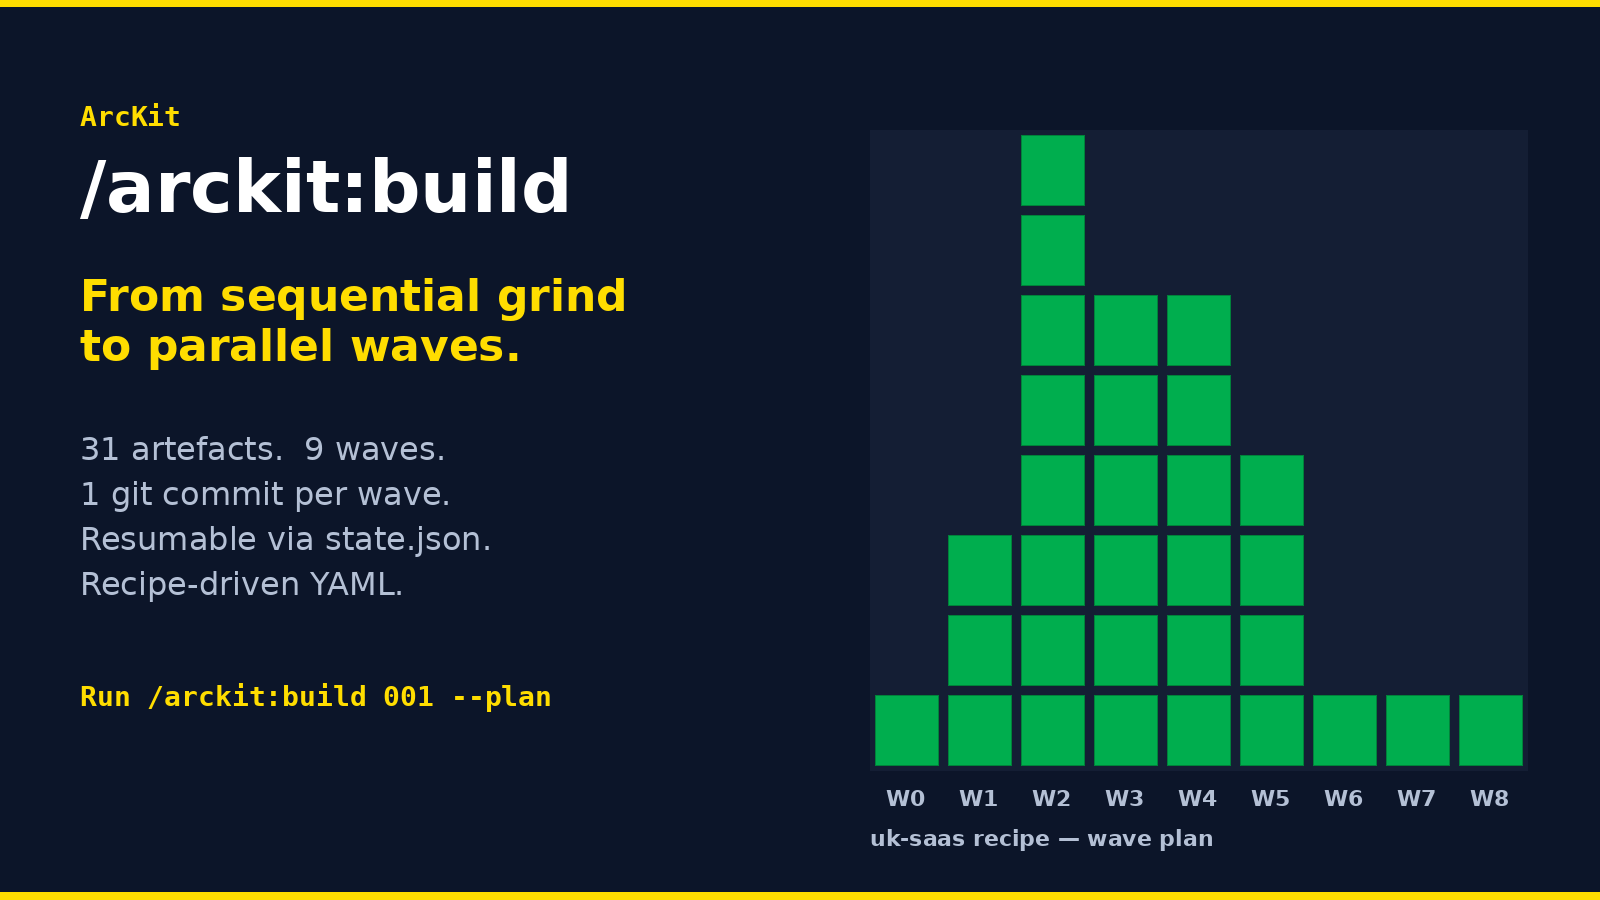
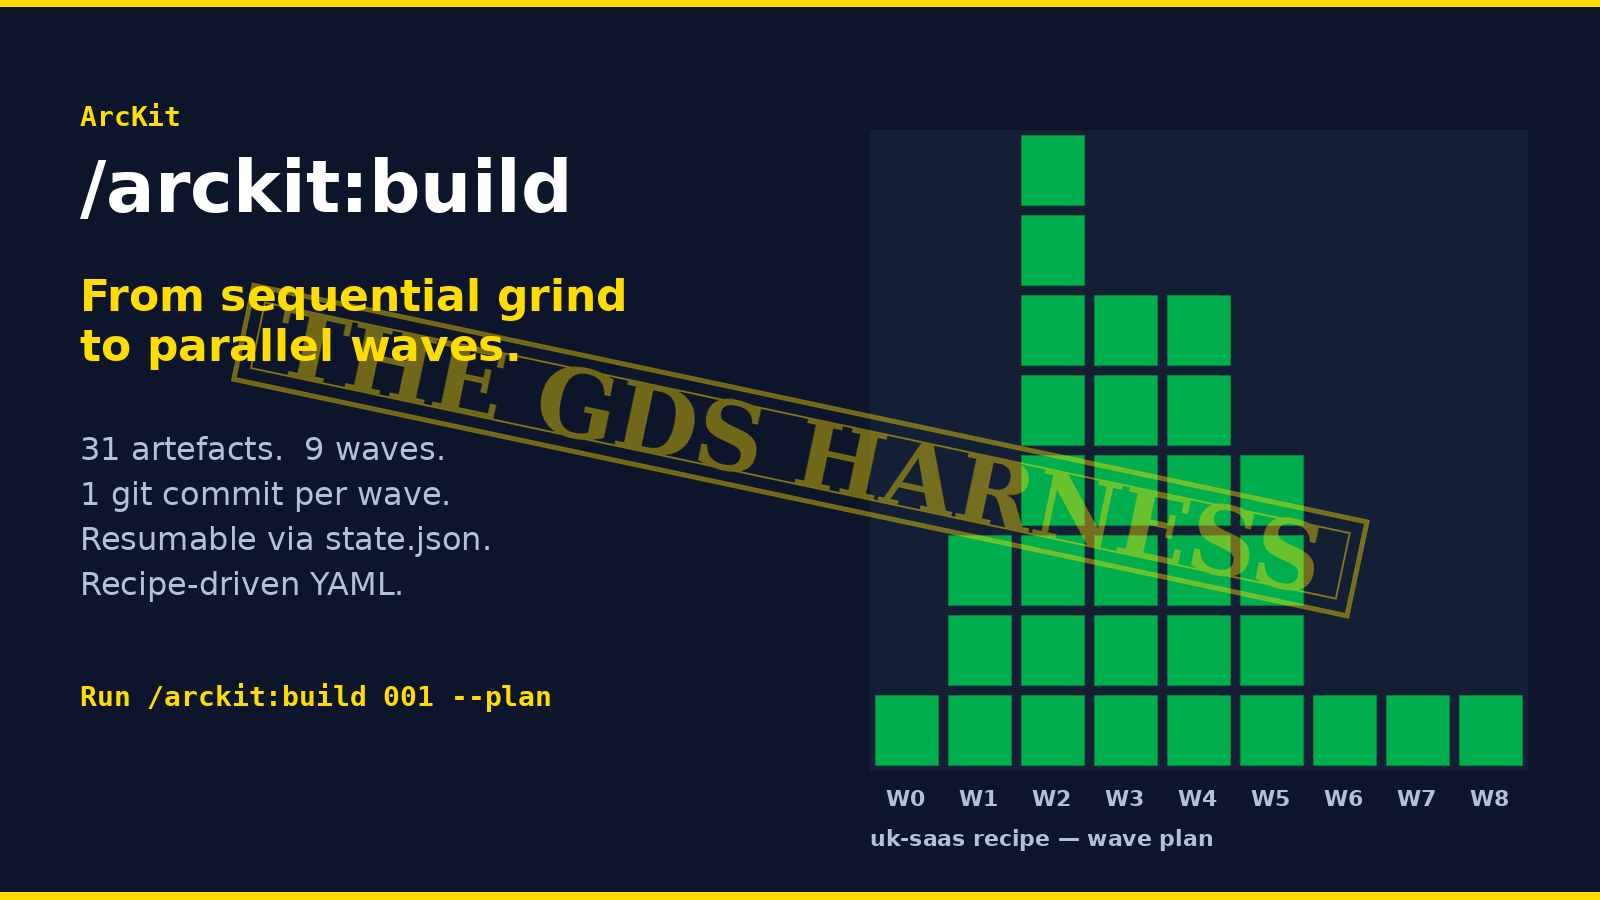
docs(article): add 'THE GDS HARNESS' rubber-stamp watermark to build-harness hero (#413)
* docs(article): add 'THE GDS HARNESS' rubber-stamp watermark to build-harness hero

Adds a subtle diagonal rubber-stamp graphic across the existing 1600x900
hero, positioning the build harness with the nickname 'The GDS Harness'.

Stamp design

  - 95pt DejaVu Serif Bold, all caps (serif reads more like a true
    rubber stamp than the body sans-serif)
  - GOV.UK yellow at ~40% alpha — watermark feel, doesn't dominate
  - Double-line border (5px outer, 2px inner) for stamp authenticity
    without visual heaviness
  - Rotated -12 degrees for the hand-stamped feel
  - Centred over the wave-plan chart so the underlying GREEN cells read
    through the ink, and the headline copy on the left stays clear

Hero is force-added (docs/articles/ is gitignored). Same filename as
v4.13.0's launch hero, so all card references on articles.html and
index.html pick up the new image automatically without HTML edits.

* docs(article): align titles + alt text with the published 'ArcKit v4.13.0: The Build Harness' framing

Three changes to bring the article surfaces in line with the title now
used on arckit.org:

  Article H1 (markdown)
    Building a full architecture in one Claude Code session
    →  ArcKit v4.13.0: The Build Harness - Building a full
       architecture in one Claude Code session

  articles.html card title (h2)
    Why ArcKit needed a build harness, and what it does
    →  ArcKit v4.13.0: The Build Harness - Building a full
       architecture in one Claude Code session
[…]

Changed region(s): [[0.125, 0.3111, 0.875, 0.6844]]

diff --git a/docs/index.html b/docs/index.html
@@ -524,14 +524,14 @@
             <div class="app-article-teaser-grid">
                 <article class="app-article-teaser">
                     <a class="app-article-teaser__media" href="article-viewer.html?a=2026-05-03-build-harness-parallel-architecture-generation">
-                        <img src="articles/2026-05-03-build-harness-parallel-architecture-generation-hero.png" alt="ArcKit /arckit:build wave plan — 31 artefacts across 9 parallel waves">
+                        <img src="articles/2026-05-03-build-harness-parallel-architecture-generation-hero.png" alt="ArcKit v4.13.0: The Build Harness — wave plan with 31 artefacts across 9 parallel waves, stamped 'The GDS Harness'">
                     </a>
                     <div class="app-article-teaser__body">
                         <div class="app-article-teaser__meta">
                             <span class="app-article-teaser__tag app-article-teaser__tag--release">Release</span>
                             <span class="app-article-teaser__date">3 May 2026</span>
                         </div>
-                        <h3 class="govuk-heading-s app-article-teaser__title">Why ArcKit needed a build harness, and what it does</h3>
+                        <h3 class="govuk-heading-s app-article-teaser__title">ArcKit v4.13.0: The Build Harness &mdash; Building a full architecture in one Claude Code session. AKA The GDS Harness</h3>
                         <p class="app-article-teaser__summary">A new <code>/arckit:build</code> command orchestrates parallel <code>/arckit:*</code> artefact generation via subagent isolation. YAML recipes drive the wave plan, state.json makes the run resumable, and the validate-arc-filename hook handles path allocation. Thirty-one artefacts in under thirty minutes, one git commit per wave.</p>
                         <a href="article-viewer.html?a=2026-05-03-build-harness-parallel-architecture-generation" class="govuk-link app-article-teaser__link">Read article &rarr;</a>
                     </div>

diff --git a/docs/articles.html b/docs/articles.html
@@ -315,14 +315,14 @@
                 <!-- 2026-05-03 /arckit:build harness launch -->
                 <article class="app-article-card">
                     <a class="app-article-card__media" href="article-viewer.html?a=2026-05-03-build-harness-parallel-architecture-generation">
-                        <img src="articles/2026-05-03-build-harness-parallel-architecture-generation-hero.png" alt="ArcKit /arckit:build wave plan — 31 artefacts across 9 parallel waves">
+                        <img src="articles/2026-05-03-build-harness-parallel-architecture-generation-hero.png" alt="ArcKit v4.13.0: The Build Harness — wave plan with 31 artefacts across 9 parallel waves, stamped 'The GDS Harness'">
                     </a>
                     <div class="app-article-card__body">
                         <div class="app-article-card__meta">
                             <span class="app-article-card__tag app-article-card__tag--release">Release</span>
                             <span class="app-article-card__date">3 May 2026</span>
                         </div>
-                        <h2 class="govuk-heading-s app-article-card__title">Why ArcKit needed a build harness, and what it does</h2>
+                        <h2 class="govuk-heading-s app-article-card__title">ArcKit v4.13.0: The Build Harness &mdash; Building a full architecture in one Claude Code session. AKA The GDS Harness</h2>
                         <p class="app-article-card__summary">A new <code>/arckit:build</code> command orchestrates parallel <code>/arckit:*</code> artefact generation via subagent isolation. YAML recipes drive the wave plan, state.json makes the run resumable, and the validate-arc-filename hook handles path allocation. Thirty-one artefacts in under thirty minutes, one git commit per wave.</p>
                         <a href="article-viewer.html?a=2026-05-03-build-harness-parallel-architecture-generation" class="govuk-link app-article-card__link">Read article &rarr;</a>
                     </div>

diff --git a/docs/articles/2026-05-03-build-harness-parallel-architecture-generation.md b/docs/articles/2026-05-03-build-harness-parallel-architecture-generation.md
@@ -1,4 +1,4 @@
-# Building a full architecture in one Claude Code session
+# ArcKit v4.13.0: The Build Harness — Building a full architecture in one Claude Code session. AKA The GDS Harness
 
 `/arckit:build` is the new ArcKit build harness. Run one command and the whole architecture builds itself: requirements, stakeholder analysis, ADRs, risk register, business case, designs, secure-by-design assessment, DPIA, diagrams, traceability matrix, and post-build health check. It does this by reading a YAML recipe, computing the dependency graph, and dispatching subagents in parallel waves. One commit per wave, full audit trail, resumable state.
 
